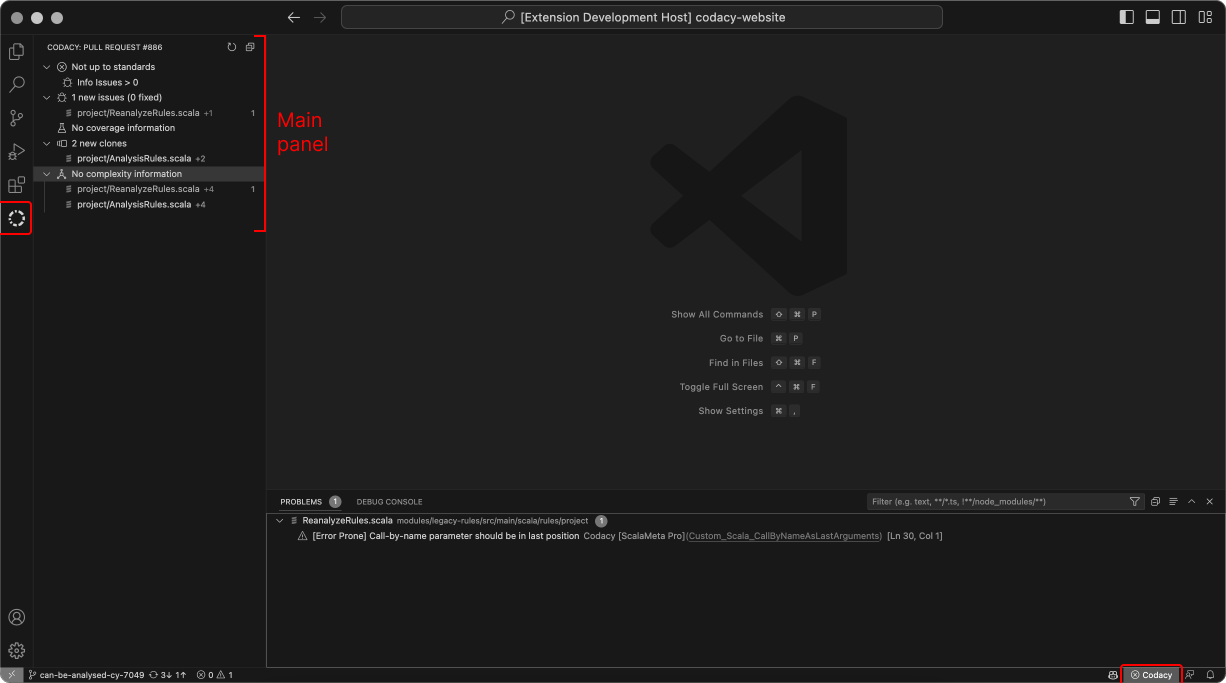
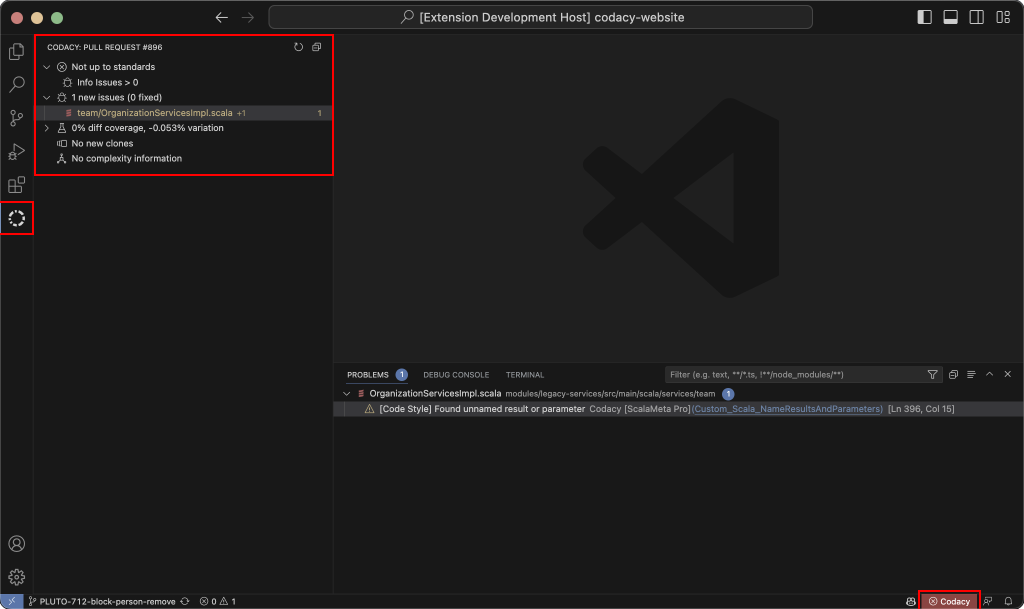
feat: Review and add new screenshots

diff --git a/docs/getting-started/integrating-codacy-with-visual-studio-code.md b/docs/getting-started/integrating-codacy-with-visual-studio-code.md
@@ -2,7 +2,7 @@
 
 If you're using Visual Studio Code, integrating Codacy into your setup can enhance your workflow, provide valuable insights into your code, and streamline your code review process without leaving the editor.
 
-To integrate Codacy into your setup, follow the instructions below to install the Codacy extension for VS Code. This extension notifies you about the quality of a pull request, highlights problematic code patterns, and displays code quality metrics, all within VS Code.
+To integrate Codacy into your setup, install the Codacy extension for VS Code by following the instructions below. This extension notifies you about the quality of a pull request, highlights problematic code patterns, and displays code quality metrics, all within VS Code.
 
 ## Installing the Codacy VS Code extension
 
@@ -15,7 +15,7 @@ To integrate Codacy into your setup, follow the instructions below to install th
 
 You can install the extension from the [Visual Studio Marketplace](https://marketplace.visualstudio.com/items?itemName=codacy-app.codacy) or through the [Extensions view](https://code.visualstudio.com/docs/editor/extension-marketplace#_browse-for-extensions) in Visual Studio Code. Alternatively, you can [download the latest release as a VSIX package](https://github.com/codacy/codacy-vscode-extension/releases) and install it manually.
 
-## Fetching pull request issues from Codacy
+## Fetching pull request quality and coverage data from Codacy
 
 1.  Open the repository directory in VS Code. 
 
@@ -24,7 +24,7 @@ You can install the extension from the [Visual Studio Marketplace](https://marke
 
 1.  Access the main view by clicking the **Codacy logo** in the status bar or the **Codacy tab** in the activity bar.
 
-    ![Codacy main view](images/codacy-vscode-extension-main-view.png)
+    ![Codacy main view](images/codacy-vscode-extension-sign-in.png)
 
 1.  If you’re not signed in, click the **Sign In** button to authorize VS Code on Codacy.
 
@@ -33,31 +33,24 @@ You can install the extension from the [Visual Studio Marketplace](https://marke
     !!! note
         The branch must match an open pull request analyzed by Codacy.
 
-After completing these steps, Codacy displays any found issues for the pull request in the main view and in VS Code's Problems tab.
+After completing these steps, Codacy displays any found problems for the pull request in the main view and in VS Code's Problems tab.
 
-## Reviewing and fixing detected issues
+## Reviewing found problems
 
-After the extension fetches pull requests issues, you can navigate to a specific file or issue by clicking it in the **Problems tab**. Line-based navigation is currently only supported for Quality issues.
+To review all found problems, open the main view by clicking the **Codacy logo** in the status bar or the **Codacy tab** in the activity bar.
 
-![Navigate to a specific issue from the Problems tab]()
-
-To view details about an issue and available quick fixes, hover over the highlighted line.
-
-!!! note
-    For a list of tools that support quick fixes, see [Supported languages and tools](./supported-languages-and-tools.md#supported-languages-and-tools)
-
-To review all detected issues, access the main view by clicking the **Codacy logo** in the status bar or the **Codacy tab** in the activity bar.
+![Codacy main view](images/codacy-vscode-extension-main-view.png)
 
 The main view displays the following metrics for the pull request:
 
--   The **quality status** of the pull request, either up to standards or not up to standards, based on the repository’s [Quality gates](../repositories-configure/adjusting-quality-gates.md).
+-   The **Quality status** of the pull request, either up to standards or not up to standards, based on the repository’s [Quality gates](../repositories-configure/adjusting-quality-gates.md).
 
--   Any **issues introduced or fixed** by the pull request. These are the same issues you find in the [Quality Issues tabs](../repositories/pull-requests.md#issues-tabs) in the Codacy app.
+-   Any **Quality issues** introduced or fixed by the pull request. These are the same issues you find in the [Quality Issues tabs](../repositories/pull-requests.md#issues-tabs) in the Codacy app.
 
     !!! tip
-        -   The number next to each file name is the total number of issues in that file.
+        -   The number immediately next to each file name is the total number of issues in that file.
 
-        -   The number to the right of each file name is the number of issues with severity Medium or higher in that file. The file is also highlighted in yellow if there are any such issues.
+        -   The number farther to the right of each file name is the number of issues with severity Medium or higher in that file. The file is also highlighted in yellow if there are any such issues.
 
 -   The **diff coverage and coverage variation** introduced by the pull request. These are the same values you find in the [Pull request coverage overview](../repositories-coverage/pull-requests.md#coverage-overview) panel in the Codacy app.
 
@@ -68,11 +61,19 @@ The main view displays the following metrics for the pull request:
 
 -   Variations in **code complexity**.
 
-## Refreshing issues
+## Navigating to found issues
 
-The Codacy extension refreshes the pull request information every time you push new changes to the Git provider, after the analysis is complete. The analysis usually takes less than 5 minutes.
+To navigate to found issues, access the **Problems tab** (use `Ctrl+Shift+M` on Windows/Linux or `Cmd+Shift+M` on macOS) and click the name of the problem you wish to review. Line-based navigation is currently only supported for Quality issues.
 
-To refresh the list manually, click the Refresh Pull Request button in the main view.
+![Navigate to a specific issue from the Problems tab](images/codacy-vscode-extension-problems-tab.png)
+
+Hover over a highlighted issue to view more details and available quick fixes. For a list of tools that support quick fixes, see [Supported languages and tools](./supported-languages-and-tools.md#supported-languages-and-tools)
+
+## Refreshing pull request data
+
+The Codacy extension refreshes the pull request data every time you push new changes to the Git provider, after the analysis is complete. The analysis usually takes less than 5 minutes.
+
+To refresh the pull request data manually, click the Refresh Pull Request button in the main view.
 
 ## Troubleshooting
 
